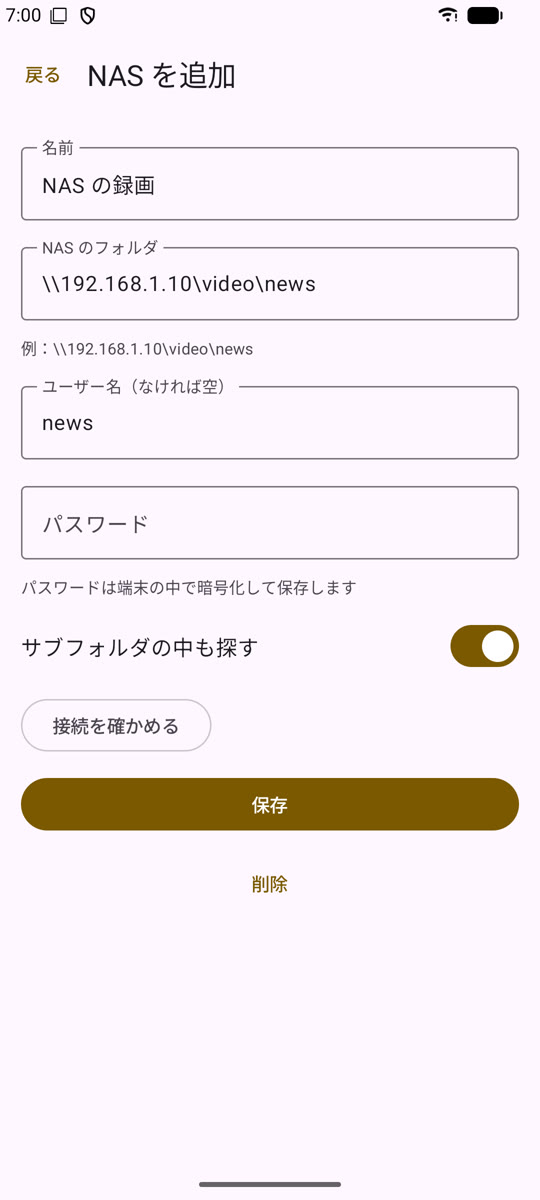
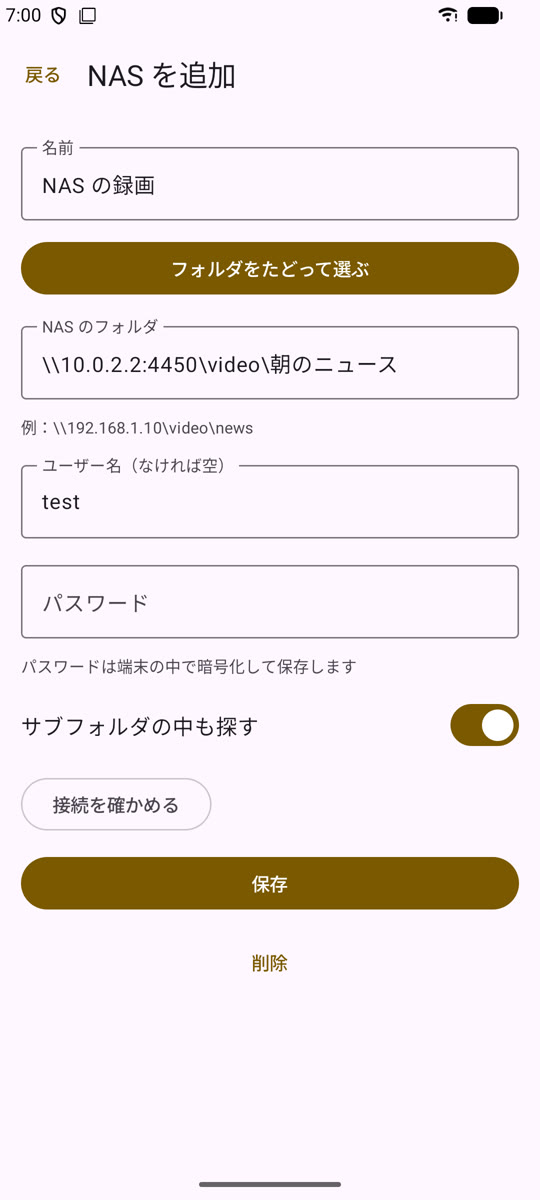
おはようニュースタイマー：NAS のフォルダをたどる画面を使い方に足す
- 使い方のページの NAS の章を、フォルダをたどって選ぶ手順と画像に直した
- プライバシーポリシーに、同じネットワークの NAS を探す問い合わせを足した
- 紹介ページの説明と NAS の画像を直した

diff --git a/morning-news/manual.html b/morning-news/manual.html
@@ -11,7 +11,7 @@
 <p><a href="./">おはようニュースタイマー の紹介ページへ戻る</a></p>
 <h1>おはようニュースタイマー の使い方</h1>
 <p>おはようニュースタイマー（Good Morning News Timer）は、決めた時刻にニュースの再生を自動で始めるアプリです。</p>
-<p class="note">この説明は バージョン 0.1.0 の画面に合わせています（2026年11月25日）。画面はこれから変わることがあります。画像の赤い枠と番号は、説明の番号と同じところです。</p>
+<p class="note">この説明は バージョン 0.1.0 の画面に合わせています（2026年11月25日、NAS のフォルダをたどる画面を追加）。画面はこれから変わることがあります。画像の赤い枠と番号は、説明の番号と同じところです。</p>
 
 <ol class="toc">
 <li><a href="#start">はじめに（許可）</a></li>
@@ -96,17 +96,37 @@
 <div class="tip">ページによっては、自動で再生が始まらないことがあります。「▶ いま再生」で試してから予定に使ってください。ログインが必要なページには向きません。</div>
 
 <h2 id="nas">7. NAS を追加する</h2>
+<p>「情報源」の「NAS を追加」を押します。画像のアドレスは見本です。</p>
 <img class="shot" src="images/manual/nas.jpg" width="540" height="1200" loading="lazy" alt="NAS を追加する画面">
 <ol>
-<li><strong>「NAS のフォルダ」</strong>：<code>\\192.168.1.10\video\news</code> のように、サーバー・共有・フォルダの順に入れます（<code>smb://192.168.1.10/video/news</code> でもかまいません）</li>
-<li><strong>「ユーザー名」「パスワード」</strong>：NAS に入るときのものです。なければ空にします</li>
+<li><strong>「フォルダをたどって選ぶ」</strong>：NAS の中を見ながらフォルダを選びます（下の手順）</li>
 <li><strong>「サブフォルダの中も探す」</strong>：ON なら、中のフォルダも 4 段まで探します</li>
 <li><strong>「接続を確かめる」</strong>：つながると、再生する最新のファイルの名前が出ます</li>
 <li><strong>「保存」</strong>を押します</li>
 </ol>
+<h3>NAS を選ぶ</h3>
+<img class="shot" src="images/manual/nas-servers.jpg" width="540" height="1200" loading="lazy" alt="NAS を選ぶ画面">
+<ol>
+<li>同じネットワークの NAS が見つかると、下に並びます。使うものを押します</li>
+<li>見つからないときは、NAS の名前かアドレス（例：<code>192.168.1.10</code>）を入れます</li>
+<li><strong>「開く」</strong>を押します</li>
+</ol>
+<p>「NAS にログイン」の窓が出たら、NAS のユーザー名とパスワードを入れて「OK」を押します。</p>
+<h3>フォルダを選ぶ</h3>
+<div class="shots">
+<img class="shot" src="images/manual/nas-shares.jpg" width="540" height="1200" loading="lazy" alt="共有フォルダの一覧">
+<img class="shot" src="images/manual/nas-folder.jpg" width="540" height="1200" loading="lazy" alt="フォルダの中">
+</div>
+<p>共有フォルダ（左）を押して中に入り、使うフォルダまで順に進みます（右）。</p>
+<ol>
+<li><strong>「このフォルダを使う」</strong>：いまのフォルダに決めます</li>
+<li>中の新しいファイルの名前が 5 件まで出ます。目当てのフォルダかどうかの目印にしてください</li>
+<li><strong>「上のフォルダへ」</strong>：1 つ戻ります。端末の「戻る」でもかまいません</li>
+</ol>
 <ul>
+<li>フォルダの場所は、<code>\\192.168.1.10\video\news</code> のように直接入れることもできます</li>
 <li>更新日時がいちばん新しい動画・音声を再生します。録画中のものを避けるため、最後の更新から 2 分たったものを優先します</li>
-<li>端末は NAS と同じネットワーク（自宅の Wi-Fi など）につないでください</li>
+<li>端末は NAS と同じネットワーク（自宅の Wi-Fi など）につないでください。NAS の側で SMB（Windows ファイル共有）の 2 以上を有効にしてください</li>
 <li>テレビの録画（MPEG-2 TS など）は、端末によって再生できないことがあります</li>
 </ul>
 

diff --git a/morning-news/privacy.html b/morning-news/privacy.html
@@ -9,7 +9,7 @@
 <body>
 <p><a href="./">おはようニュースタイマー</a></p>
 <h1>おはようニュースタイマー プライバシーポリシー</h1>
-<p>制定日：2026年11月25日</p>
+<p>制定日：2026年11月25日<br>改定日：2026年11月25日（ネットワークの NAS を探す機能を追加）</p>
 <p>DNGG-studio（以下「運営者」）は、Android アプリ「おはようニュースタイマー」（以下「本アプリ」）での利用者の情報の扱いを、次のとおり定めます。本アプリは、決めた時刻に、利用者が選んだニュースのページ・動画・音声の再生を始めるアプリです。<strong>運営者はサーバーを持たず、利用者の情報を運営者のもとに集めることはありません。</strong></p>
 
 <h2>1. 端末の中に保存する情報</h2>
@@ -38,7 +38,8 @@
 <table>
 <tr><th>送信先</th><th>送る情報</th><th>目的</th></tr>
 <tr><td>利用者が選んだ情報源のサイト（日テレNEWS NNN、TBS NEWS DIG、YouTube、利用者が足した URL など）</td><td>ページや動画を開くための要求。ページの中の Cookie、アクセス解析、広告などは、各サイトとその提携先が扱います</td><td>ニュースなどの再生。各サイトでの扱いは、それぞれのプライバシーポリシーに従います（YouTube は <a href="https://policies.google.com/privacy">Google のプライバシーポリシー</a>）</td></tr>
-<tr><td>利用者が指定した NAS</td><td>ユーザー名・パスワードによる認証と、ファイルを読む要求</td><td>フォルダの最新のファイルの再生</td></tr>
+<tr><td>利用者が指定した NAS</td><td>ユーザー名・パスワードによる認証と、ファイルを読む要求</td><td>共有フォルダの一覧とフォルダの中の表示、最新のファイルの再生</td></tr>
+<tr><td>同じネットワークの機器</td><td>ファイル共有の機器を探す問い合わせ（mDNS）。NAS を選ぶ画面を開いているあいだだけ</td><td>NAS を一覧に出すため。結果は保存せず、外部に送信しません</td></tr>
 </table>
 <p>利用者が足した URL が http:// で始まるときは、通信は暗号化されません。</p>
 
@@ -63,7 +64,7 @@
 <hr>
 <div lang="en">
 <h1>Good Morning News Timer Privacy Policy</h1>
-<p>Effective: November 25, 2026</p>
+<p>Effective: November 25, 2026<br>Updated: November 25, 2026 (added finding NAS devices on the network)</p>
 <p>This policy explains how DNGG-studio ("we") handles your information in the Android app "Good Morning News Timer" ("the app"). The app starts playing news pages, video or audio you choose at the time you set. <strong>We run no servers, and we never collect your information.</strong></p>
 
 <h2>1. Information stored on your device</h2>
@@ -92,7 +93,8 @@
 <table>
 <tr><th>Recipient</th><th>Data</th><th>Purpose</th></tr>
 <tr><td>Sites of the sources you choose (NTV News NNN, TBS NEWS DIG, YouTube, URLs you add, etc.)</td><td>Requests to open pages and video. Cookies, analytics and ads in the pages are handled by each site and its partners</td><td>Playing news and other content, under each site's privacy policy (for YouTube, the <a href="https://policies.google.com/privacy">Google Privacy Policy</a>)</td></tr>
-<tr><td>The NAS you specify</td><td>Sign-in with the user name and password, and requests to read files</td><td>Playing the newest file in the folder</td></tr>
+<tr><td>The NAS you specify</td><td>Sign-in with the user name and password, and requests to read files</td><td>Listing shared folders and their contents, and playing the newest file</td></tr>
+<tr><td>Devices on your local network</td><td>A query for file-sharing devices (mDNS), only while the NAS picker is open</td><td>To list NAS devices. Results are not stored or sent anywhere</td></tr>
 </table>
 <p>If a URL you add starts with http://, the connection is not encrypted.</p>
 

diff --git a/morning-news/index.html b/morning-news/index.html
@@ -25,7 +25,7 @@
 <li><strong>自動再生：</strong>時刻と曜日を決めておくと、画面が消えていても点けて再生を始めます。予定は複数作れます</li>
 <li><strong>情報源：</strong>各局の公式ページや公式 YouTube を、試す順に並べられます。再生できないときは次の情報源に進み、どれもだめならアラームを鳴らします</li>
 <li><strong>URL の追加：</strong>ニュースのページ、YouTube、動画・音声（m3u8・mp4・mp3 など）の URL を登録できます</li>
-<li><strong>NAS：</strong>フォルダを指定すると、その中のいちばん新しい動画・音声を再生します（SMB 2 / 3）</li>
+<li><strong>NAS：</strong>フォルダをたどって選ぶと、その中のいちばん新しい動画・音声を再生します（SMB 2 / 3）</li>
 <li><strong>音量と自動停止：</strong>予定ごとに音量を決められ、終わると元の音量に戻します。決めた時間で自動で止められます</li>
 <li>縦・横の画面、12 言語に対応</li>
 </ul>
@@ -55,7 +55,7 @@
 <li><strong>Automatic playback:</strong> set times and days, and playback starts even when the screen is off. You can make several schedules</li>
 <li><strong>Sources:</strong> put official news pages and YouTube channels in the order to try. If one can't play, the next is used, and if none can, an alarm sounds</li>
 <li><strong>Add URLs:</strong> news pages, YouTube, or audio/video (m3u8, mp4, mp3…)</li>
-<li><strong>NAS:</strong> plays the newest audio or video file in a folder you choose (SMB 2 / 3)</li>
+<li><strong>NAS:</strong> browse to a folder, and the app plays its newest audio or video file (SMB 2 / 3)</li>
 <li><strong>Volume and automatic stop:</strong> set for each schedule. The volume is restored afterward</li>
 <li>Portrait and landscape, 12 languages</li>
 </ul>
